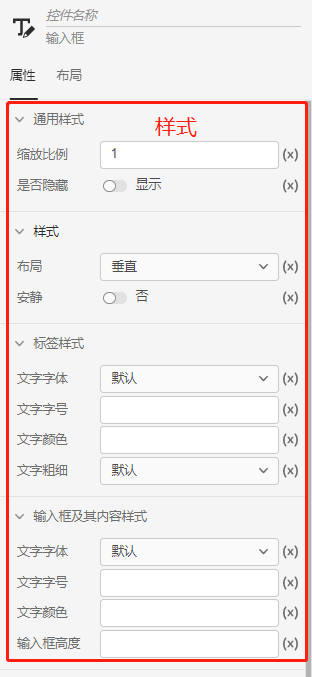
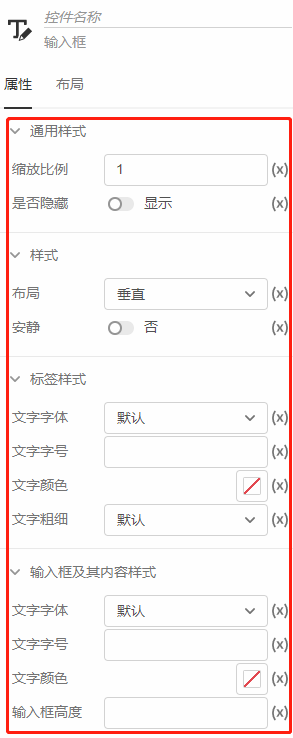
docs: 修改IESLabSDK文档
Former-commit-id: 88f318af9606b3a564d9c9ccb5fa8fe286f20d8a

diff --git a/docs/zh-hans/IESLab/ieslabsdk/data/index.md b/docs/zh-hans/IESLab/ieslabsdk/data/index.md
@@ -6,54 +6,54 @@ order: 10
 
 ## ==数据管理模块对应一个Python类`DataManageModel`，类实例与具体的算例（`Model`类的实例）相绑定，提供以下接口方法：==
 
-### 1 根据`timeID`直接获取对应元素的信息，函数签名如下：
-### GetDataItem(itemID)
+### 1 根据`ID`直接获取对应元素的信息，函数签名如下：
+### GetDataItem(ID)
 :::info
-获取`itemID`对应的元素信息
+获取`ID`对应的元素信息
 :::
-**Params timeID:**  string类型，代表数据项的标识符，可以在所有类型的数据项中实现唯一标识
+**Params ID:**  string类型，代表数据项的标识符，可以在所有类型的数据项中实现唯一标识
 
 **返回:**  dict类型，为源数据的引用，返回该数据项的信息
 
-### 2 根据数据种类获取该类型下所有数据项的`timeID`列表，函数签名如下：
+### 2 根据数据种类获取该类型下所有数据项的列表，函数签名如下：
 ### GetItemList(dataType)
 :::info
 获取`dataType`类型对应所有数据项的列表
 :::
-**Params dataType:**  dataType enum类型，数据的种类标识，⽐如`Transformer`, `Load`,`HeatPrice`等等
+**Params dataType:**  string类型，数据的种类标识，包含："光伏"、"风机"、"燃气轮机"、"热泵"、"燃气锅炉"、"热管式太阳能集热器"、"电压缩制冷机"、"吸收式制冷机"、"蓄电池"、"储水罐"、"变压器"、"传输线"、"模块化多电平变流器"、"离心泵"、"管道"、"采暖制冷负荷"、"电负荷"、"燃料"、"热"、"冷"、"常数电价"、"分时电价"、"阶梯电价"、"分时阶梯电价"
 
-**返回:**  list类型，返回该种类下所有数据项的`timeID`的列表
+**返回:**  list类型，返回该种类下所有数据项的列表
 
 ### 3 向数据库中添加数据项，函数签名如下：
 ### AddDataItem(dataType, data)
 :::info
 向`dataType`类型的数据库中添加内容为`data`的数据项
 :::
-**Params dataType:**  dataType enum类型，数据的种类标识，⽐如`Transformer`, `Load`,`HeatPrice`等等
+**Params dataType:**  string类型，数据的种类标识，包含："光伏"、"风机"、"燃气轮机"、"热泵"、"燃气锅炉"、"热管式太阳能集热器"、"电压缩制冷机"、"吸收式制冷机"、"蓄电池"、"储水罐"、"变压器"、"传输线"、"模块化多电平变流器"、"离心泵"、"管道"、"采暖制冷负荷"、"电负荷"、"燃料"、"热"、"冷"、"常数电价"、"分时电价"、"阶梯电价"、"分时阶梯电价"
 
 **Params data:**  dict类型，表⽰添加的数据内容，其数据结构应满⾜对应数据项的结构要求
 
-**返回:**  string类型，返回新添加数据项的`timeID`，如果数据结构不满⾜要求，抛出异常
+**返回:**  string类型，返回新添加数据项的`ID`，如果数据结构不满⾜要求，抛出异常
 
 ### 4 向数据库中更新数据项，函数签名如下：
-### UpdateDataItem(dataType, data)
+### UpdateDataItem(ID, data)
 :::info
-向`dataType`类型的数据库中更新内容为`data`的数据项
+将数据库`ID`对应数据项更新为`data`数据项
 :::
-**Params dataType:**  dataType enum类型，数据的种类标识，⽐如`Transformer`, `Load`,`HeatPrice`等等
+**Params ID:**  string类型，代表数据项的标识符，可以在所有类型的数据项中实现唯一标识
 
 **Params data:**  dict类型，表⽰添加的数据内容，其数据结构应满⾜对应数据项的结构要求
 
-**返回:**   bool类型，修改是否成功
+**返回:**   bool类型，返回`True` 更新成功
 
-### 5 通过`timeID`在数据库中删除数据项，函数签名如下：
-### DeleteDataItem(timeID)
+### 5 通过`ID`在数据库中删除数据项，函数签名如下：
+### DeleteDataItem(ID)
 :::info
-删除对应`timeID`的数据
+向数据库中删除`ID`对应数据项
 :::
-**Params timeID:**  string类型，代表数据项的标识符，可以在所有类型的数据项中实现唯一标识
+**Params ID:**  string类型，代表数据项的标识符，可以在所有类型的数据项中实现唯一标识
 
-**返回:**    bool类型，删除是否成功，如果`itemID`错误，抛出异常
+**返回:**    bool类型，删除是否成功，如果`ID`错误，抛出异常
 
 ### 6 设定项⽬经纬度位置坐标，函数签名如下：
 ### SetProjectPosition(longitude, latitude)

diff --git a/docs/zh-hans/sdknew/interface/model/index.md b/docs/zh-hans/sdknew/interface/model/index.md
@@ -248,3 +248,55 @@ model.save(model,'newKey') # 另存为新的项目
 ```python
 Model.update(model)
 ```
+
+## ==添加每个内核的运行入口用于运行指定内核程序，如下==
+
+### 电磁暂态内核运行入口
+### runEMT(config=None,jobName=None,configName=None)
+:::info
+运行`emtp`内核，如果当前`model`没有创建`empt Job`时报错，默认使用第一个计算方案，进行仿真。
+:::
+
+**Params config:**  参数方案，可选，默认使用保存时选中的参数方案
+
+**Params jobName:**  计算方案名称，可选，默认使用第一个计算方案，如果同名使用最靠前一个
+
+**Params configName:**  参数方案名称，可选，如果同时使用config和configName 以config 为主，同名使用最靠前一个
+
+**返回:**  runner Runner[EMTResult]
+
+### 移频电磁暂态内核运行入口
+### runSFEMT(job=None,config=None)
+:::info
+运行移频电磁暂态内核，如果当前`model`没有创建`Job`时报错，默认使用第一个计算方案，进行仿真。
+:::
+
+**Params job:**  计算方案名称，可选，字符串类型或者字典类型,默认使用第一个计算方案，如果同名使用最靠前一个
+
+**Params config:**  参数方案，可选，字符串类型或者字典类型,默认使用保存时选中的参数方案
+
+**返回:**  runner Runner[EMTResult]
+
+### 潮流计算内核运行入口
+### runPowerFlow(job=None,config=None)
+:::info
+运行潮流内核，如果当前`model`没有创建`Job`时报错，默认使用第一个计算方案，进行仿真。
+:::
+
+**Params job:**  计算方案名称，可选，字符串类型或者字典类型,默认使用第一个计算方案，如果同名使用最靠前一个
+
+**Params config:**  参数方案，可选，字符串类型或者字典类型,默认使用保存时选中的参数方案
+
+**返回:**  runner Runner[PowerFlowResult]
+
+### 配电网三相不平衡潮流内核运行入口
+### runThreePhasePowerFlow(job=None,config=None)
+:::info
+运行配电网三相不平衡潮流内核，如果当前`model`没有创建`Job`时报错，默认使用第一个计算方案，进行仿真。
+:::
+
+**Params job:**  计算方案名称，可选，字符串类型或者字典类型,默认使用第一个计算方案，如果同名使用最靠前一个
+
+**Params config:**  参数方案，可选，字符串类型或者字典类型,默认使用保存时选中的参数方案
+
+**返回:**  runner Runner[PowerFlowResult]

diff --git a/docs/zh-hans/appstudio/control/style/index.md b/docs/zh-hans/appstudio/control/style/index.md
@@ -37,7 +37,7 @@ order: 713
 
 ![文字字号](./文字字号.png "文字字号")
 
-文字颜色：输入`#`开头的十六进制颜色码来给标签文字着色和控制透明度。例如`##4472C411`
+文字颜色：支持通过颜色选择器来给标签文字着色
 
 ![文字颜色](./文字颜色.png "文字颜色")
 
@@ -51,5 +51,38 @@ order: 713
 
 ![输入框高度](./输入框高度.png "输入框高度")
 
+### 盒子和MarkDown文本框的背景样式
 
+![背景样式](./背景样式.png "背景样式")
 
+对于盒子和MarkDown文本框控件的背景，一方面可以通过颜色选择器修改背景颜色，另一方面也可以自定义背景图片。
+
+![背景自定义](./背景自定义.png "背景自定义")
+
+有两种自定义背景图片的方法，第一种，直接点击上传图片，上传本地图片
+
+第二种方法是直接输入图片的网址，也就是图片的 URL 地址, 如果是本地图片，需要将其上传到图床（保存图片资源的服务器）
+
+![图片的网址](./图片的网址.png "图片的网址")
+
+背景契合度：可以设置背景图片的摆放方式，有填充、适应、拉伸、平铺、居中5个可选项。
+
+填充：图片等比缩放，按照最小边来适应屏幕的最大边，以达到填充屏幕的效果
+
+![背景的填充效果](./背景的填充效果.png "背景的填充效果")
+
+适应：图片也是等比缩放，只不过图片的最大边放到屏幕的最小边时就不在放大
+
+![背景的适应效果](./背景的适应效果.png "背景的适应效果")
+
+拉伸:  图片不按比例缩放，根据场景大小拉伸，让一张图片就占满场景
+
+![背景的拉伸效果](./背景的拉伸效果.png "背景的拉伸效果")
+
+平铺：把图片铺满场景，图片小的话挨个排列，直到排满整个场景
+
+![背景的平铺效果](./背景的平铺效果.png "背景的平铺效果")
+
+居中：图片保留原大小处于水平线中间，也就是场景中间
+
+![背景的居中效果](./背景的居中效果.png "背景的居中效果")

diff --git a/docs/zh-hans/IESLab/ieslabsdk/solution_evaluation/index.md b/docs/zh-hans/IESLab/ieslabsdk/solution_evaluation/index.md
@@ -6,7 +6,7 @@ order: 40
 ## ==方案评估选模块对应有两个Python类，第一种类实例与具体的算例（`Model`类的实例）相绑定，第二种类实例与计算结果（`Result`类的实例）相绑定。对第一种python类（`EvaluationModel`），提供以下接口方法：==
 
 ### 1 获取指定方案的财务评估参数信息，函数签名如下：
-### GetFinancialParas(planID)
+### GetFinancialParams(planID)
 :::info
 获取planID对应的优化方案下财务评估模块的基础信息
 :::
@@ -37,3 +37,18 @@ order: 40
 
 **返回:**  array类型，代表该方案对应的概览结果
 
+### 3 获取当前结果类对应的优化方案下的环保评价，函数签名如下：
+### GetEnvironmentalEvaluationResult()
+:::info
+获取当前结果类对应的优化方案下的能效评价
+:::
+
+**返回:**  array类型，代表该方案对应的能效评价结果
+
+### 4 获取当前结果类对应的优化方案下的环保评价，函数签名如下：
+### GetEnvironmentalEvaluationResult()
+:::info
+获取当前结果类对应的优化方案下的环保评价
+:::
+
+**返回:**  array类型，代表该方案对应的环保评价结果

diff --git a/docs/zh-hans/appstudio/control/stuff/text/index.md b/docs/zh-hans/appstudio/control/stuff/text/index.md
@@ -13,7 +13,7 @@ order: 716
 
 ### 2. MarkDown 文本框内容属性
 
-![MarkDown 文本框内容属性](./MarkDown 文本框内容属性.png "MarkDown 文本框内容属性")
+![ MarkDown 文本框内容属性 ](./MarkDown 文本框内容属性.png "MarkDown 文本框内容属性")
 
 值：输入 MarkDown 文本，支持值模式和表达式模式输入。
 

diff --git a/docs/zh-hans/IESLab/ieslabsdk/index.md b/docs/zh-hans/IESLab/ieslabsdk/index.md
@@ -8,4 +8,4 @@ order: 300
 ## [SimStudio 工作台相关接口](./simstudio/index.md)
 ## [方案优选模块相关接口](./solution_optimization/index.md)
 ## [方案评估模块相关接口](./solution_evaluation/index.md)
-## [内核运行接口添加](./kernel_operation/index.md)
+
